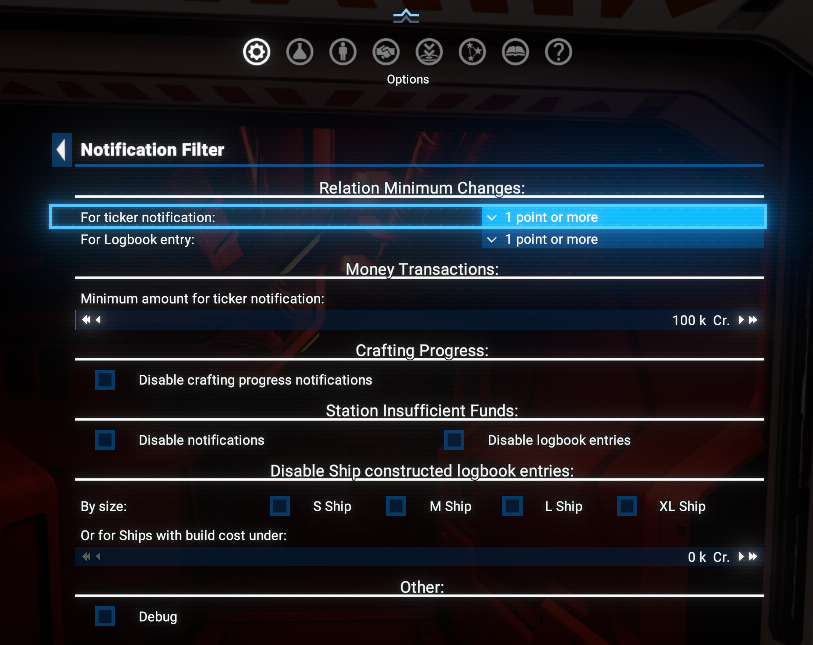
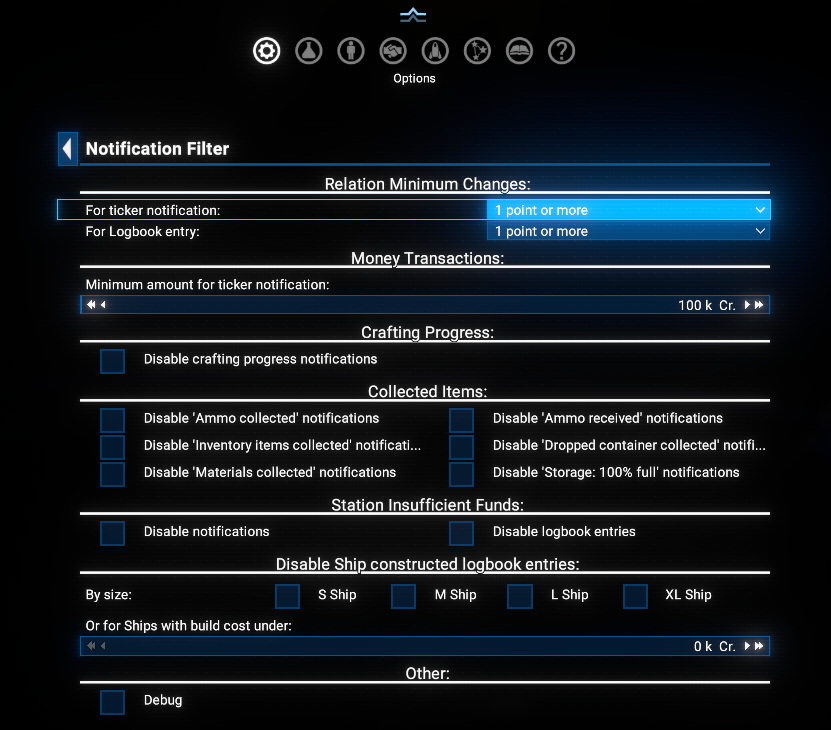
feat(notification_filter): add collected items filter options
md/notification_filter_options_menu.xml: +added Menu_Section_CollectedItems with checkboxes for various collected items notifications.
  md/notifications.xml: +updated notification cues to include new filters for collected items.

feat(languageFiles): update translations for collected items notifications

  t/0001-l033.xml: +added French translations for collected items notifications.
  t/0001-l034.xml: +added Spanish translations for collected items notifications.
  t/0001-l039.xml: +added Italian translations for collected items notifications.
  t/0001-l042.xml: +added Czech translations for collected items notifications.
  t/0001-l044.xml: +added English translations for collected items notifications.
  t/0001-l048.xml: +added Polish translations for collected items notifications.
  t/0001-l049.xml: +added German translations for collected items notifications.
  t/0001-l055.xml: +added Portuguese translations for collected items notifications.
  t/0001-l081.xml: +added Japanese translations for collected items notifications.
  t/0001-l082.xml: +added Korean translations for collected items notifications.
  t/0001-l086.xml: +added Chinese translations for collected items notifications.
  t/0001-l088.xml: +added Traditional Chinese translations for collected items notifications.
  t/0001-l090.xml: +added Turkish translations for collected items notifications.
  t/0001-l380.xml: +added Ukrainian translations for collected items notifications.

diff --git a/README.md b/README.md
@@ -7,6 +7,10 @@ This mod introduces filtering functionality for some type of Notifications shown
 - Set minimum changes of `Relation` to be displayed in `Notification Ticker` and `Logbook` (Separately).
 - Set a minimum amount of `Money` transaction to be displayed in `Notification Ticker`.
 - Disable notifications related to `Crafting Progress` in the `Notification Ticker`.
+- Disable notifications for collected items in the `Notification Ticker`:
+  - `Ammo collected`, `Ammo received`
+  - `Inventory items collected`, `Dropped container collected`
+  - `Materials collected`, `Storage: 100% full`
 - Disable notifications related to `Station Insufficient Funds` in the `Notification Ticker` and `Logbook`.
 - Disable notifications related to `Ship Constructed` in the `Logbook` based on the size or cost of the constructed ship.
 
@@ -34,6 +38,15 @@ Then, select the `Notification Filter` item to open the filter menu.
 
 ![Notification Filter](docs/images/notification_filter.png)
 
+The menu contains the following sections:
+
+- Relation Minimum Changes
+- Money Minimum Changes
+- Crafting Progress
+- Collected Items
+- Station Insufficient Funds
+- Ship Constructed
+
 ### Relation Minimum Changes
 
 There are two different `Dropdowns` to define the minimum change of `Relation` to be displayed in `Notification ticker` or recorder into `Logbook`:
@@ -59,6 +72,17 @@ There is a `Checkbox` to disable notifications related to `Crafting Progress` in
 
 There is an example of such notification in the image below:
 ![Crafting Progress Notification](docs/images/crafting_progress.png)
+
+### Collected Items
+
+There are six `Checkboxes` to individually disable notifications for items picked up by the player in the `Notification Ticker`:
+
+- **Ammo collected**: Suppresses the `Ammo collected` ticker notification.
+- **Ammo received**: Suppresses the `Ammo received` (crafted/granted) ticker notification.
+- **Inventory items collected**: Suppresses the `Inventory item collected` ticker notification.
+- **Dropped container collected**: Suppresses the `Dropped container collected` ticker notification.
+- **Materials collected**: Suppresses the `Materials collected` ticker notification.
+- **Storage: 100% full**: Suppresses the `Storage: 100% full` (cargo full) ticker notification.
 
 ### Station Insufficient Funds
 
@@ -88,6 +112,11 @@ There is also a `Debug` checkbox to enable debug messages for the notifications 
 - [SirNukes](https://next.nexusmods.com/profile/sirnukes?gameId=2659) — for the `Mod Support APIs` that power the UI hooks.
 
 ## Changelog
+
+### [8.00.05] - 2026-03-26
+
+- **Added**
+  - New `Collected Items` section with six individual filters for pick-up notifications: `Ammo collected`, `Ammo received`, `Inventory items collected`, `Dropped container collected`, `Materials collected`, `Storage: 100% full`.
 
 ### [8.00.04] - 2026-03-02
 
